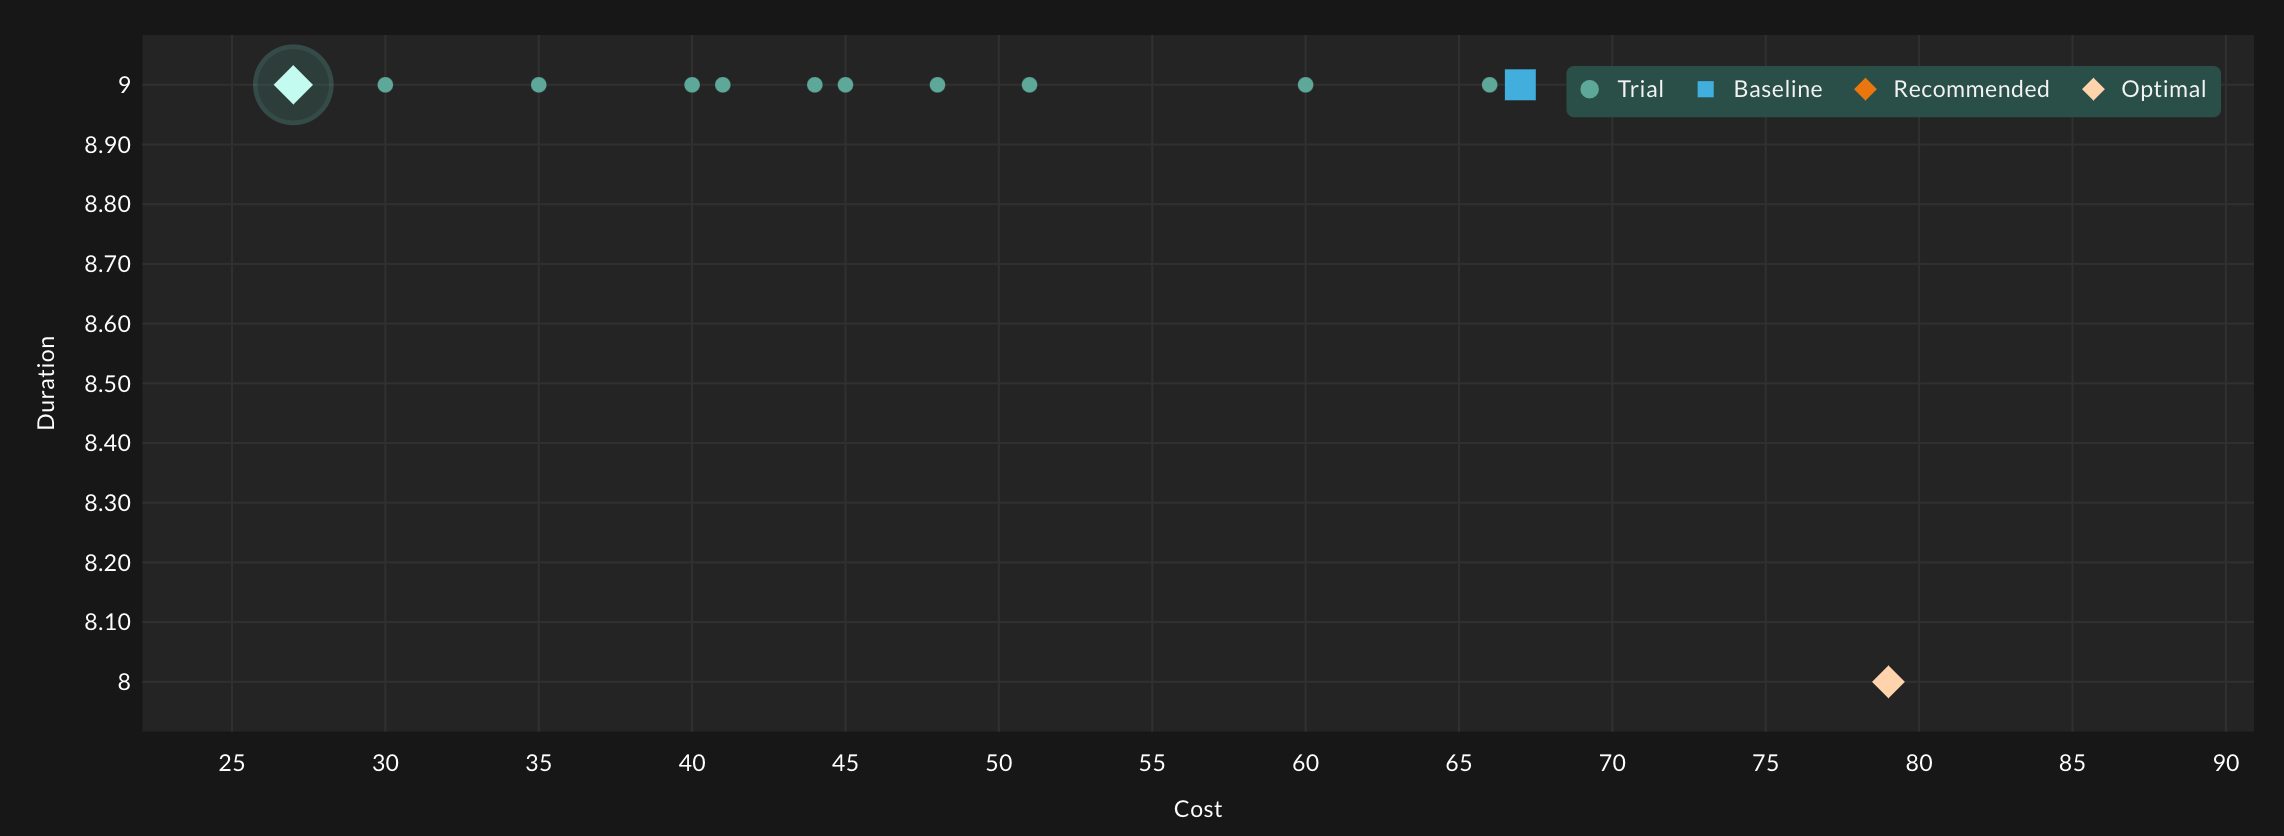
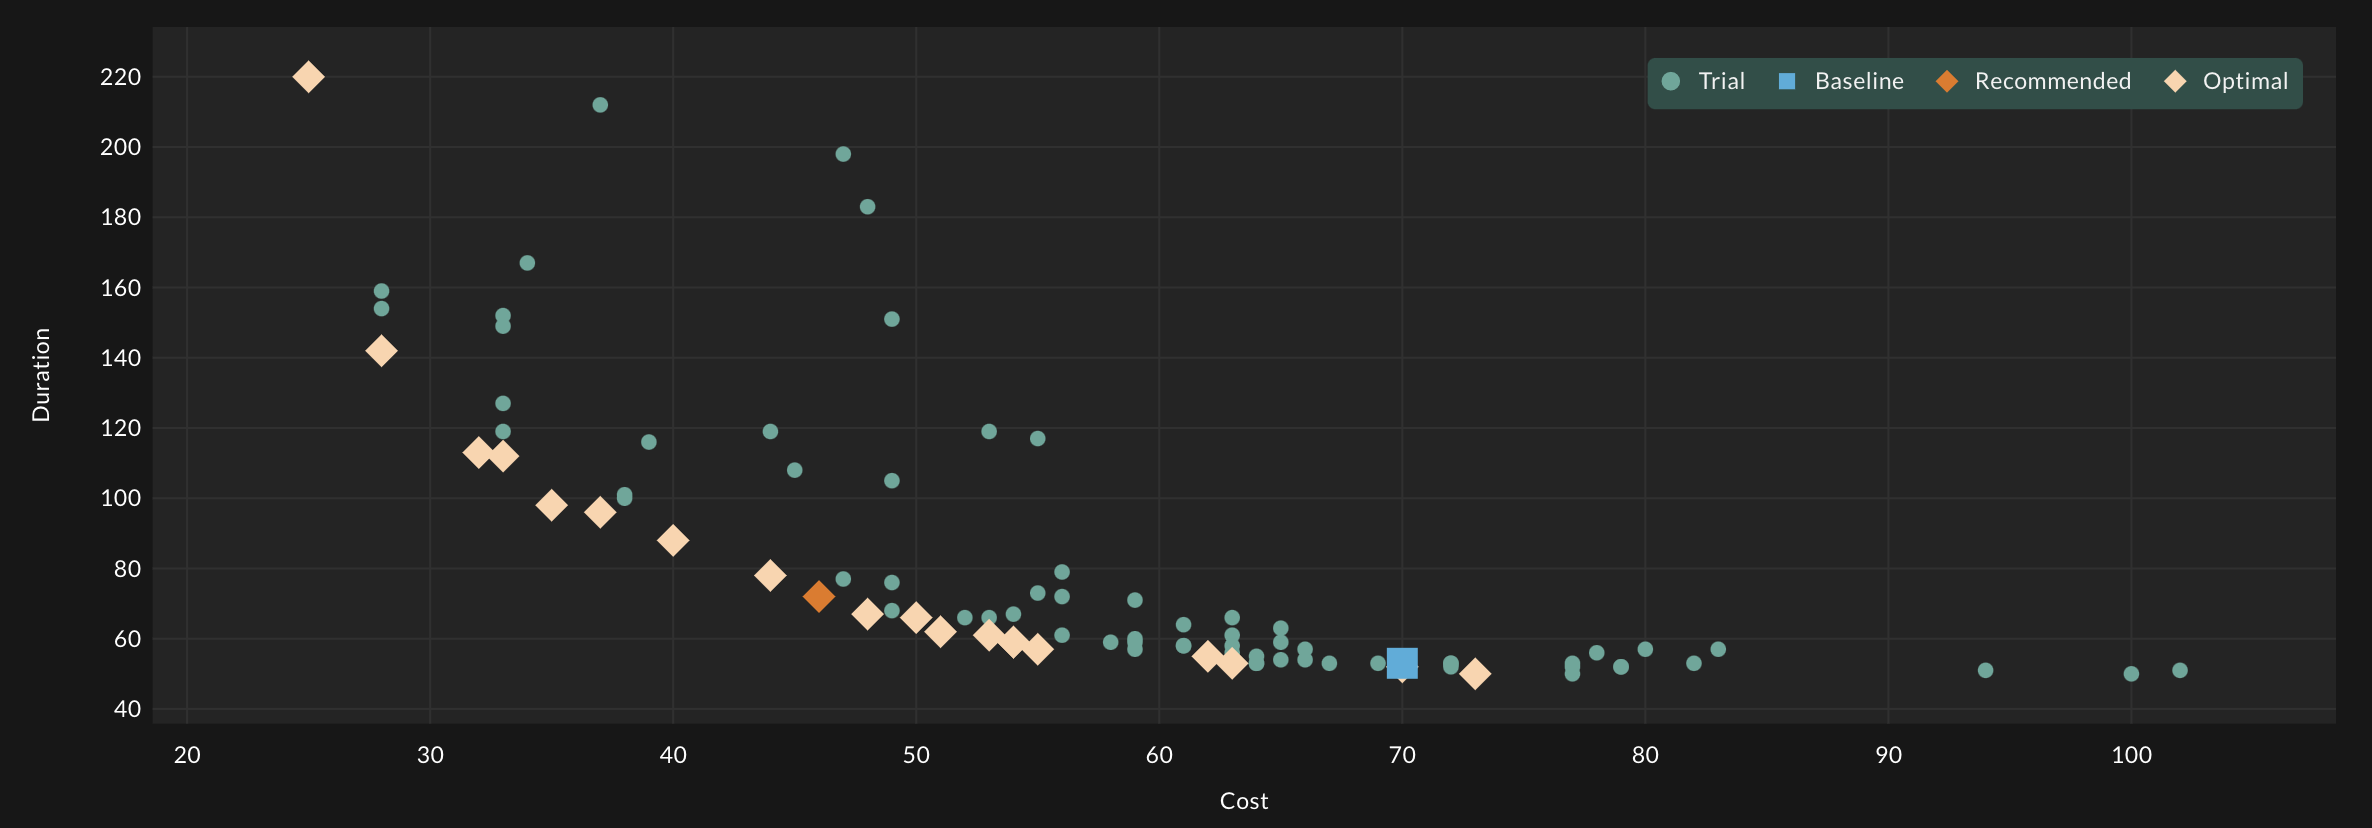
final push, update of docs and experiment

diff --git a/cassandra/README.md b/cassandra/README.md
@@ -11,10 +11,6 @@ The official documentation for cassandra-stress can be found [here](https://cass
 
 
 ### Technical Process
-UPDATE: we moved the sequiential test runs into the trial template for the experiment itself, using the image from cassandra 4 which contains the 
-cassandra-stress tools. We've kept all the older related manifests/docker files in this repo as an example of how to wrap your own load test into a 
-customer docker image.
-
 In order to get the cassandra-stress to run all three load tests under one experiment trial, we needed to create a container for that task.
 You can find the Dockerfile and related artifacts [here](https://www.github.com/thecrudge/cstress) or in the Docker folder. Essentially its 
 an image that runs an entrypoint with a very basic script to run all three load tests consecutively. You can customize your load test parameters 
@@ -26,7 +22,7 @@ In the experiment spec, you can see the parameters we are using for our experime
 spec:
   optimization:
   - name: "experimentBudget"
-    value: "40" #number of trials 
+    value: "120" #number of trials 
   parameters:
   - name: memory
     min: 500
@@ -160,7 +156,7 @@ cassandra-write-read-mixed-example-001   Running     MAX_HEAP_SIZE=1413, cpu=618
 ```
 
 ## Results
-The image below shows us that the machine learning has recommended trial number 35. With this trial we can see we have a cost savings of 59.70%
+The image below shows us that the machine learning has recommended trial number #98. With this trial we can see we have a cost savings of 34.29%
 compared to our baseline in Trial #1.
 
 <img src="img/results1.png" width="400">
